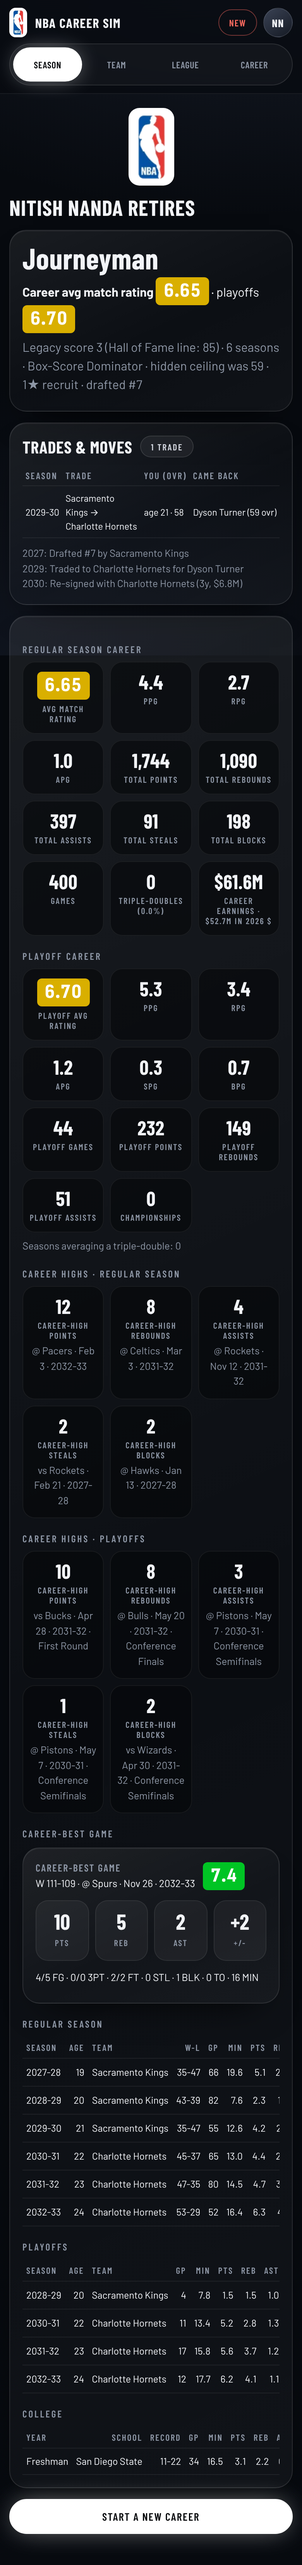
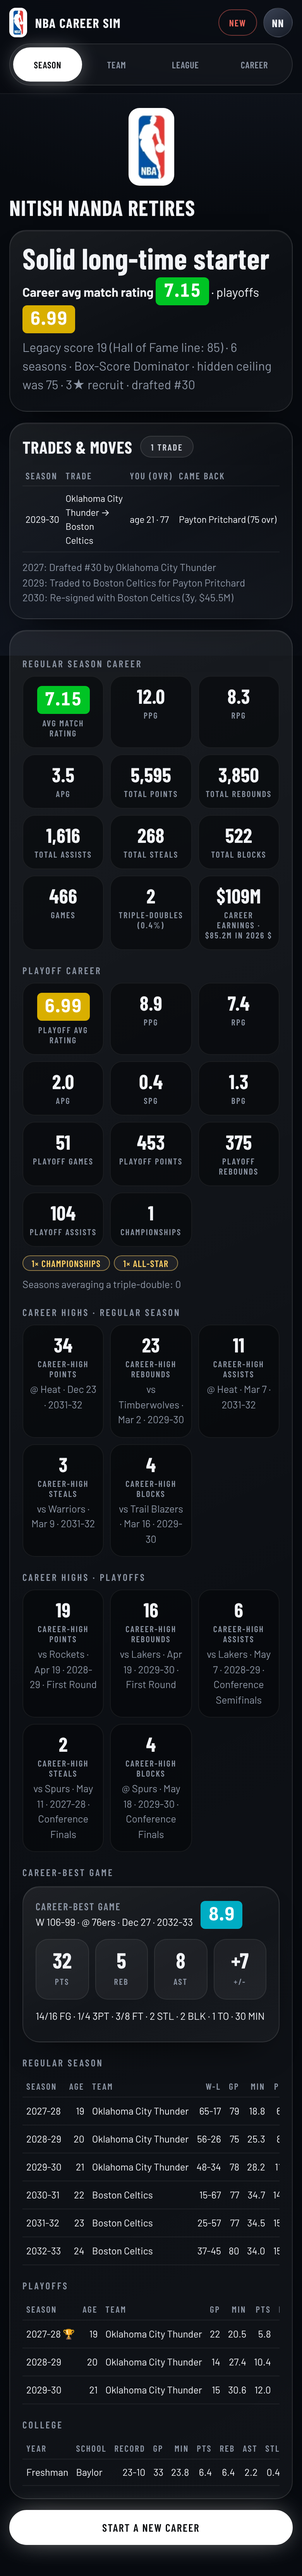
Gen box-score dominators follow Jokic/Westbrook-style progression: slower start, higher peak efficiency and boards (v23)
Claude-Session: https://claude.ai/code/session_01LfmSy8S1TYpuHiYkmqyZ5K

diff --git a/dist/index.html b/dist/index.html
@@ -438,7 +438,7 @@ html, body { overflow-x: hidden; } .panel, .card { min-width: 0; } .scroll { max
     winsPerPt: 0.95, formSd: 0.07, winsCoreAvg: 48, ovrStretch: 1.3,
     growthScale: 0.85, declineLate: 1.2, genGapA: 6, genGapB: 7, injScale: 0.6, retireScale: 1.2,   // career-shape knobs fitted to the real cohorts (scripts/fit-careers.js)
     astKnee: 7, astK: 0.88991, rebKnee: 7.23037, rebK: 0.76112,   // how fast per-36 assists / rebounds flatten for the very best passers and rebounders
-    volSpread: 0.43399, frUsg: 0.05, frMins: 0.9, genTrade: 1, minsHard: 39, genDomUsg: 0.22, genCeilDrop: 3.5,
+    volSpread: 0.43399, frUsg: 0.05, frMins: 0.9, genTrade: 1, minsHard: 39, genDomUsg: 0.2, genSecGap: 8, gdReb: 1.12, gdAst: 1.06, gdTs: 0.06, genCeilDrop: 3.5,
     starTs: 0.04142, starReb: 0.06173, starAst: 0.32616,   // extra production for the very best (fitted to the real top of the league)
   };
   NBA.tuning = T;
@@ -647,6 +647,7 @@ html, body { overflow-x: hidden; } .panel, .card { min-width: 0; } .scroll { max
     ts += (c.tsAdj || 0) - (c.rookie ? 0.012 : 0);
     const top = clamp((o - 90) / 9, 0, 1);
     ts += T.starTs * top;
+    if (p.arch === 'dominator' && p.sec === 'generational') ts += T.gdTs;   // Jokic-type efficiency on top of the volume
     ts = clamp(ts, 0.44, 0.7);
 
     const pace = c.pace || T.pace;
@@ -666,7 +667,7 @@ html, body { overflow-x: hidden; } .panel, .card { min-width: 0; } .scroll { max
     const hi = Math.max(0, pts - 27), astTrade = Math.max(0.52, 1 - 0.07 * gl * hi), rebTrade = Math.max(0.66, 1 - 0.04 * gl * hi);
     return {
       ovr: o, usg, ts, mins, pace,
-      pts, reb: reb36 * k * (c.rebMult || 1) * (p.arch === 'generational' ? 0.97 : 1) * rebTrade * (1 + T.starReb * top), ast: ast36 * k * (c.astMult || 1) * (p.arch === 'generational' ? 0.88 : 1) * astTrade * (1 + T.starAst * top),
+      pts, reb: reb36 * k * (c.rebMult || 1) * (p.arch === 'dominator' && p.sec === 'generational' ? T.gdReb : 1) * (p.arch === 'generational' ? 0.97 : 1) * rebTrade * (1 + T.starReb * top), ast: ast36 * k * (c.astMult || 1) * (p.arch === 'dominator' && p.sec === 'generational' ? T.gdAst : 1) * (p.arch === 'generational' ? 0.88 : 1) * astTrade * (1 + T.starAst * top),
       stl: stl36 * k, blk: blk36 * k, tov: tov36 * k,
     };
   }
@@ -1424,7 +1425,7 @@ html, body { overflow-x: hidden; } .panel, .card { min-width: 0; } .scroll { max
     if (genLevel && !lateBloomer) {
       if (!stars) stars = +weighted(genLevel === 2 ? { 5: 70, 4: 25, 3: 5 } : { 5: 40, 4: 35, 3: 25 });
       if (ceiling == null) ceiling = (genLevel === 2 ? 86 : 82) - NBA.tuning.genCeilDrop + (genLevel === 2 ? 12 : 12) * Math.pow(rand(), 1.9);
-      gap = NBA.tuning.genGapA + rand() * NBA.tuning.genGapB;
+      gap = NBA.tuning.genGapA + rand() * NBA.tuning.genGapB + (genLevel === 1 ? NBA.tuning.genSecGap : 0);   // a generational tag on top of another archetype starts further from the ceiling (Jokic: 10 ppg at 20)
     } else if (lateBloomer) {
       if (!stars) stars = +weighted({ 1: 50, 2: 50 });
       if (ceiling == null) ceiling = 88 + 8 * rand();
@@ -2131,7 +2132,7 @@ html, body { overflow-x: hidden; } .panel, .card { min-width: 0; } .scroll { max
   'use strict';
   const NBA = window.NBA, D = NBA.data, G = NBA.Game;
   const KEY = 'nba-career-sim-save-v1';
-  const BUILD = 'build 21 Oct · BallerSim dashboard v22';
+  const BUILD = 'build 21 Oct · BallerSim dashboard v23';
   const app = document.getElementById('app');
   let S = null;           // game state
   let draft = { name: '', pos: 'SF', arch: 'scorer', sec: '', home: 'Illinois' };

diff --git a/dist/nba-career-sim.html b/dist/nba-career-sim.html
@@ -425,7 +425,7 @@ html, body { overflow-x: hidden; } .panel, .card { min-width: 0; } .scroll { max
     winsPerPt: 0.95, formSd: 0.07, winsCoreAvg: 48, ovrStretch: 1.3,
     growthScale: 0.85, declineLate: 1.2, genGapA: 6, genGapB: 7, injScale: 0.6, retireScale: 1.2,   // career-shape knobs fitted to the real cohorts (scripts/fit-careers.js)
     astKnee: 7, astK: 0.88991, rebKnee: 7.23037, rebK: 0.76112,   // how fast per-36 assists / rebounds flatten for the very best passers and rebounders
-    volSpread: 0.43399, frUsg: 0.05, frMins: 0.9, genTrade: 1, minsHard: 39, genDomUsg: 0.22, genCeilDrop: 3.5,
+    volSpread: 0.43399, frUsg: 0.05, frMins: 0.9, genTrade: 1, minsHard: 39, genDomUsg: 0.2, genSecGap: 8, gdReb: 1.12, gdAst: 1.06, gdTs: 0.06, genCeilDrop: 3.5,
     starTs: 0.04142, starReb: 0.06173, starAst: 0.32616,   // extra production for the very best (fitted to the real top of the league)
   };
   NBA.tuning = T;
@@ -634,6 +634,7 @@ html, body { overflow-x: hidden; } .panel, .card { min-width: 0; } .scroll { max
     ts += (c.tsAdj || 0) - (c.rookie ? 0.012 : 0);
     const top = clamp((o - 90) / 9, 0, 1);
     ts += T.starTs * top;
+    if (p.arch === 'dominator' && p.sec === 'generational') ts += T.gdTs;   // Jokic-type efficiency on top of the volume
     ts = clamp(ts, 0.44, 0.7);
 
     const pace = c.pace || T.pace;
@@ -653,7 +654,7 @@ html, body { overflow-x: hidden; } .panel, .card { min-width: 0; } .scroll { max
     const hi = Math.max(0, pts - 27), astTrade = Math.max(0.52, 1 - 0.07 * gl * hi), rebTrade = Math.max(0.66, 1 - 0.04 * gl * hi);
     return {
       ovr: o, usg, ts, mins, pace,
-      pts, reb: reb36 * k * (c.rebMult || 1) * (p.arch === 'generational' ? 0.97 : 1) * rebTrade * (1 + T.starReb * top), ast: ast36 * k * (c.astMult || 1) * (p.arch === 'generational' ? 0.88 : 1) * astTrade * (1 + T.starAst * top),
+      pts, reb: reb36 * k * (c.rebMult || 1) * (p.arch === 'dominator' && p.sec === 'generational' ? T.gdReb : 1) * (p.arch === 'generational' ? 0.97 : 1) * rebTrade * (1 + T.starReb * top), ast: ast36 * k * (c.astMult || 1) * (p.arch === 'dominator' && p.sec === 'generational' ? T.gdAst : 1) * (p.arch === 'generational' ? 0.88 : 1) * astTrade * (1 + T.starAst * top),
       stl: stl36 * k, blk: blk36 * k, tov: tov36 * k,
     };
   }
@@ -1411,7 +1412,7 @@ html, body { overflow-x: hidden; } .panel, .card { min-width: 0; } .scroll { max
     if (genLevel && !lateBloomer) {
       if (!stars) stars = +weighted(genLevel === 2 ? { 5: 70, 4: 25, 3: 5 } : { 5: 40, 4: 35, 3: 25 });
       if (ceiling == null) ceiling = (genLevel === 2 ? 86 : 82) - NBA.tuning.genCeilDrop + (genLevel === 2 ? 12 : 12) * Math.pow(rand(), 1.9);
-      gap = NBA.tuning.genGapA + rand() * NBA.tuning.genGapB;
+      gap = NBA.tuning.genGapA + rand() * NBA.tuning.genGapB + (genLevel === 1 ? NBA.tuning.genSecGap : 0);   // a generational tag on top of another archetype starts further from the ceiling (Jokic: 10 ppg at 20)
     } else if (lateBloomer) {
       if (!stars) stars = +weighted({ 1: 50, 2: 50 });
       if (ceiling == null) ceiling = 88 + 8 * rand();
@@ -2118,7 +2119,7 @@ html, body { overflow-x: hidden; } .panel, .card { min-width: 0; } .scroll { max
   'use strict';
   const NBA = window.NBA, D = NBA.data, G = NBA.Game;
   const KEY = 'nba-career-sim-save-v1';
-  const BUILD = 'build 21 Oct · BallerSim dashboard v22';
+  const BUILD = 'build 21 Oct · BallerSim dashboard v23';
   const app = document.getElementById('app');
   let S = null;           // game state
   let draft = { name: '', pos: 'SF', arch: 'scorer', sec: '', home: 'Illinois' };

diff --git a/scripts/sim-gen-dominator.js b/scripts/sim-gen-dominator.js
@@ -1,0 +1,12 @@
+// Gen-tagged box-score dominator careers by age next to the Jokic / Westbrook reference seasons (data/ref-gen-dominators.json)
+require('../src/data.js'); require('../src/engine.js'); require('../src/league.js'); const G = require('../src/game.js').Game;
+if (process.env.TUNE) Object.assign(NBA.tuning, JSON.parse(process.env.TUNE));
+const ref = require('../data/ref-gen-dominators.json'); const N = +process.env.N || 60; const by = {}; let peak = [];
+for (let i = 0; i < N; i++) { const st = G.newCareer({ name: 'x', pos: ['PG', 'SF', 'C'][i % 3], arch: 'dominator', sec: 'generational', home: 'Ohio', seed: 300 + i }); G.auto(st);
+  st.proSeasons.forEach((s) => { (by[s.age] = by[s.age] || []).push(s); }); const q = st.proSeasons.filter((s) => s.gp >= 50); if (q.length) peak.push(q.reduce((a, s) => (s.pts + s.reb + s.ast > a.pts + a.reb + a.ast ? s : a)).age); }
+const mean = (a, k) => a.reduce((t, s) => t + s[k], 0) / a.length; const med = (a, k) => { const b = a.map((s) => s[k]).sort((x, y) => x - y); return b[Math.floor(b.length / 2)]; };
+const r = (age) => { const rows = ['jokic', 'westbrook'].map((n) => ref[n].find((x) => x[0] === age)).filter(Boolean); if (!rows.length) return null; return [2, 3, 4, 5].map((i) => rows.reduce((t, x) => t + x[i], 0) / rows.length).concat([rows.reduce((t, x) => t + x[1], 0) / rows.length]); };
+console.log('age   n | sim mpg  pts  reb  ast   gp | ref mpg  pts  reb  ast   gp   (ref = mean of Jokic and Westbrook that age)');
+for (let a = 19; a <= 38; a++) { const s = by[a]; if (!s || s.length < 8) continue; const x = r(a), f = (v, d) => v.toFixed(d == null ? 1 : d);
+  console.log(String(a).padEnd(5) + String(s.length).padStart(3) + ' | ' + [med(s, 'mins'), med(s, 'pts'), med(s, 'reb'), med(s, 'ast')].map((v) => f(v).padStart(5)).join(' ') + String(Math.round(med(s, 'gp'))).padStart(5) + ' | ' + (x ? x.map((v, i) => f(v, i === 4 ? 0 : 1).padStart(5)).join(' ') : '   –')); }
+peak.sort((p, q) => p - q); console.log('age of best season (sim median)', peak[Math.floor(peak.length / 2)], '| ref: Jokic 29, Westbrook 28');

diff --git a/src/engine.js b/src/engine.js
@@ -48,7 +48,7 @@
     winsPerPt: 0.95, formSd: 0.07, winsCoreAvg: 48, ovrStretch: 1.3,
     growthScale: 0.85, declineLate: 1.2, genGapA: 6, genGapB: 7, injScale: 0.6, retireScale: 1.2,   // career-shape knobs fitted to the real cohorts (scripts/fit-careers.js)
     astKnee: 7, astK: 0.88991, rebKnee: 7.23037, rebK: 0.76112,   // how fast per-36 assists / rebounds flatten for the very best passers and rebounders
-    volSpread: 0.43399, frUsg: 0.05, frMins: 0.9, genTrade: 1, minsHard: 39, genDomUsg: 0.22, genCeilDrop: 3.5,
+    volSpread: 0.43399, frUsg: 0.05, frMins: 0.9, genTrade: 1, minsHard: 39, genDomUsg: 0.2, genSecGap: 8, gdReb: 1.12, gdAst: 1.06, gdTs: 0.06, genCeilDrop: 3.5,
     starTs: 0.04142, starReb: 0.06173, starAst: 0.32616,   // extra production for the very best (fitted to the real top of the league)
   };
   NBA.tuning = T;
@@ -257,6 +257,7 @@
     ts += (c.tsAdj || 0) - (c.rookie ? 0.012 : 0);
     const top = clamp((o - 90) / 9, 0, 1);
     ts += T.starTs * top;
+    if (p.arch === 'dominator' && p.sec === 'generational') ts += T.gdTs;   // Jokic-type efficiency on top of the volume
     ts = clamp(ts, 0.44, 0.7);
 
     const pace = c.pace || T.pace;
@@ -276,7 +277,7 @@
     const hi = Math.max(0, pts - 27), astTrade = Math.max(0.52, 1 - 0.07 * gl * hi), rebTrade = Math.max(0.66, 1 - 0.04 * gl * hi);
     return {
       ovr: o, usg, ts, mins, pace,
-      pts, reb: reb36 * k * (c.rebMult || 1) * (p.arch === 'generational' ? 0.97 : 1) * rebTrade * (1 + T.starReb * top), ast: ast36 * k * (c.astMult || 1) * (p.arch === 'generational' ? 0.88 : 1) * astTrade * (1 + T.starAst * top),
+      pts, reb: reb36 * k * (c.rebMult || 1) * (p.arch === 'dominator' && p.sec === 'generational' ? T.gdReb : 1) * (p.arch === 'generational' ? 0.97 : 1) * rebTrade * (1 + T.starReb * top), ast: ast36 * k * (c.astMult || 1) * (p.arch === 'dominator' && p.sec === 'generational' ? T.gdAst : 1) * (p.arch === 'generational' ? 0.88 : 1) * astTrade * (1 + T.starAst * top),
       stl: stl36 * k, blk: blk36 * k, tov: tov36 * k,
     };
   }

diff --git a/src/game.js b/src/game.js
@@ -42,7 +42,7 @@
     if (genLevel && !lateBloomer) {
       if (!stars) stars = +weighted(genLevel === 2 ? { 5: 70, 4: 25, 3: 5 } : { 5: 40, 4: 35, 3: 25 });
       if (ceiling == null) ceiling = (genLevel === 2 ? 86 : 82) - NBA.tuning.genCeilDrop + (genLevel === 2 ? 12 : 12) * Math.pow(rand(), 1.9);
-      gap = NBA.tuning.genGapA + rand() * NBA.tuning.genGapB;
+      gap = NBA.tuning.genGapA + rand() * NBA.tuning.genGapB + (genLevel === 1 ? NBA.tuning.genSecGap : 0);   // a generational tag on top of another archetype starts further from the ceiling (Jokic: 10 ppg at 20)
     } else if (lateBloomer) {
       if (!stars) stars = +weighted({ 1: 50, 2: 50 });
       if (ceiling == null) ceiling = 88 + 8 * rand();

diff --git a/src/ui.js b/src/ui.js
@@ -2,7 +2,7 @@
   'use strict';
   const NBA = window.NBA, D = NBA.data, G = NBA.Game;
   const KEY = 'nba-career-sim-save-v1';
-  const BUILD = 'build 21 Oct · BallerSim dashboard v22';
+  const BUILD = 'build 21 Oct · BallerSim dashboard v23';
   const app = document.getElementById('app');
   let S = null;           // game state
   let draft = { name: '', pos: 'SF', arch: 'scorer', sec: '', home: 'Illinois' };

diff --git a/CALIBRATION.md b/CALIBRATION.md
@@ -241,3 +241,8 @@ The sim no longer clamps or scripts careers. Everything below is fitted to real 
 - **Awards** come from fitted voting models (`data/real-mvp-model.json`): MVP conditional logit, All-NBA logistic, Finals MVP scorer-or-defender rule. Nothing forces a winner.
 - Honest note: real generational careers (22 of them) average ~2.0 MVPs, not 2.7; the sim gens land around 2.2 MVP / 2.2 Finals MVP.
 - Known gaps: sim careers still run ~1.5 seasons longer than real ones, gens still use slightly more usage (~33% vs 29%) than the real cohort average.
+
+## v23: generational box-score dominators vs Jokic / Westbrook
+
+`data/ref-gen-dominators.json` holds per-season lines for Jokic and Westbrook (supplied by the project owner); `scripts/sim-gen-dominator.js` prints the sim's gen-tagged dominator careers by age next to them.
+Fitted: a slower start for a generational *tag* (`genSecGap`; ~13 ppg at 20, 17 at 21, 22 at 22), more rebounding and passing (`gdReb`, `gdAst`), and Jokic-style efficiency plus volume (`gdTs`, `genDomUsg`) instead of volume alone (usage 33%, TS 61% at the peak, ~27 ppg at 26-30, 76% of careers have a 28+ season, 42% a 30+). Regular-season minutes are capped at 39.
